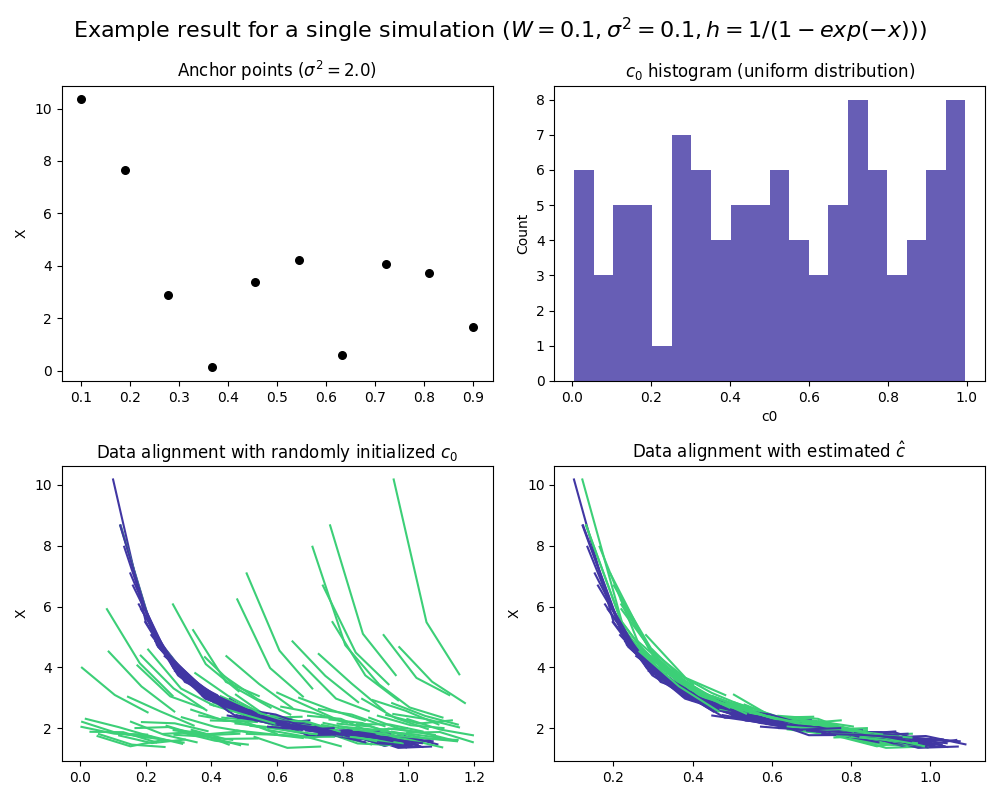
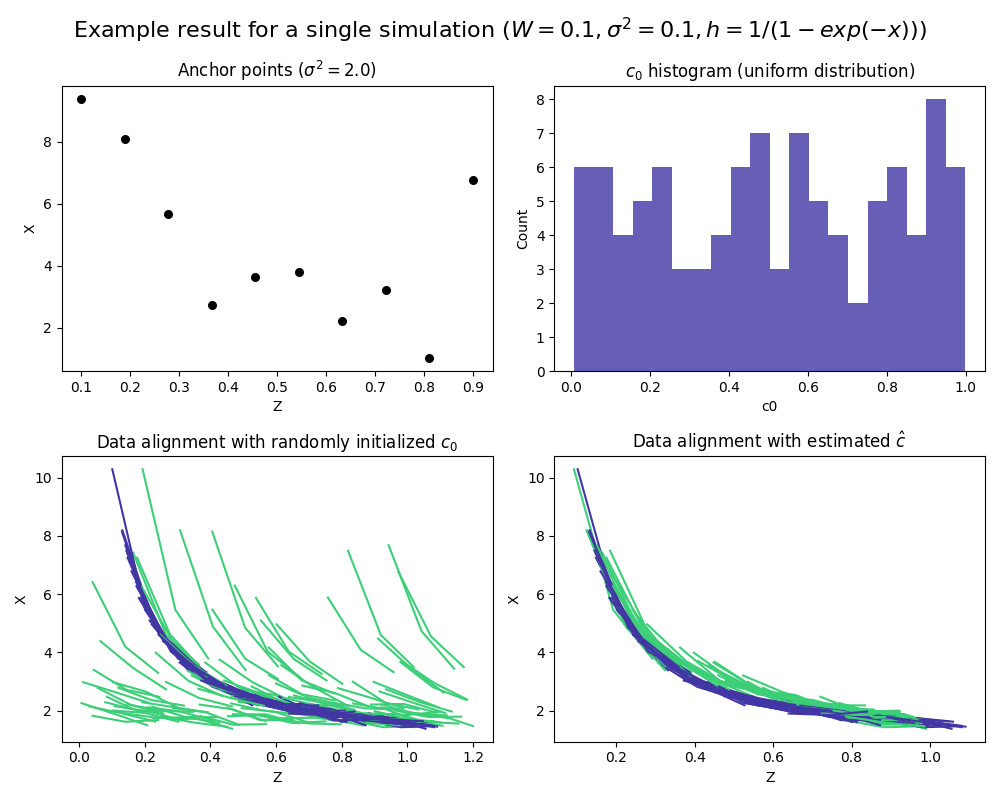
Updates

diff --git a/paper/main.tex b/paper/main.tex
@@ -24,31 +24,18 @@ ESP32s equipped with capacitive moisture sensors have recently been suggested fo
 
 \section{Introduction}
 
-\begin{itemize}
-    \item Summary of physical properties of soils and the measurement of moisture
-    \item Summary of recent work proposing ESP32s and capacitive sensors
-    \item Problem statement of response curves and calibration, measurement in practice by consumers
-    \item Objectives: software system, event classification, response curve algorithm
-\end{itemize}
+Recent work has proposed the use of ESP32-class microcontrollers and low-cost moisture sensors for automated watering systems \cite{biswas2018-solar-pump, purnomo2021-lora, sudarmaji2024-smart-soil, afzal2025-arima}, motivated by mitigating water shortages \cite{afzal2025-arima}. As global heating increases, both flooding and increases in water shortages are expected world-wide \hl{cite}. In previous work, ESP32/capacitive sensor calibration has been performed by gravimetry \cite{sudarmaji2024-smart-soil} and WiFi connections. However, it is expected that these curves depend on a range of factors, including soil type (i.e. clay content), temperature \cite{merlin2007-calibration}, and salinity \hl{cite}, with unknown generalisability \hl{cite}. Furthermore, end users may find it difficult to undertake gravimetry for each specific application type. Bogena et al (2017) \cite{bogena2017-calibration} developed a procedure for calibration of low-cost moisture sensors and observed variability, suggesting sensor-specific calibration instead of a single global calibration curve. Overall, there is increasing interest in IoT sensors and their application to agriculture (see \cite{ruiz2025-iot-mapping} for a bibliometric analysis).\\
+
+The objective of this work was to introduce an automated system and statistical method for automated calibration of sensors with minimal user input. This aim was primarily motivated by the challenge end users may find with gravimetric calibration, as well as lack of generalisability of a given calibration curve.
 
 \begin{itemize}
   \item Frequency dependence \cite{kelleners2005-frequency-dependence}.
   \item Standardized methodologies explicitly test salinity, temperature, and effective frequency \cite{jones2005-em-methodology}.
-  \item ESP32-based smart agriculture prototype \cite{swathi2025-esp32-smart-ag}.
-  \item Coastal horticulture deployment \cite{sudarmaji2024-smart-soil}.
-  \item Solar-powered irrigation control \cite{biswas2018-solar-pump}.
-  \item ARIMA with IoT monitoring to inform watering schedules \cite{afzal2025-arima}.
-  \item Low-power field deployment for soil moisture telemetry \cite{purnomo2021-lora}.
-  \item A review of IoT in this context \cite{ruiz2025-iot-mapping}.
-  \item Prior work on variability \cite{bogena2017-calibration}.
-  \item Heterogeneous soils, temperature variability \cite{merlin2007-calibration}.
   \item EM sensing accuracy \cite{sheng2025-frequency}.
   \item Sensitivity to salinity and temperature \cite{jones2005-em-methodology}.
   \item Frequency, conductivity, and temperature effects for sensors \cite{kizito2008-frequency}.
   \item Permittivity measurements and variability \cite{seyfried2004-50mhz}.
   \item Clayey soil deviation, structural effects \cite{gonzalez-teruel2020-mixing}.
-  \item TODO: search for sensor placement/spatial heterogeneity study.
-  \item TODO: search for work on drift in capacitive sensors.
 \end{itemize}
 
 \section{Methods}
@@ -89,7 +76,7 @@ Y_i = X_i - EMWA_\lambda(X)_i
 \min\limits_{i < j < i+k}{|Y_{j,s} - Y_{i,s}|} > q
 \]
 
-Given an event candidate at $t_{i+1}$ and window size $k$; for the sensors chosen, $X$ is decreasing in water content, so only events with negative change are assumed to be watering. In addition, only events for which all sensors attached to a given microcontroller agree on an event were taken. This resulted in a classification parameterized by two thresholds, two window sizes, and a median absolute deviation scale factor: $(p, q, k, w, c, \lambda)$. \\
+Given an event candidate at $t_{i+1}$ and window size $k$; for the sensors chosen, $X$ is decreasing in water content, so only events with negative change are assumed to be watering. In addition, only events for which all sensors attached to a given microcontroller agree on an event were taken. This resulted in a classification parameterized by two thresholds, two window sizes, and a median absolute deviation scale factor: $(p, q, k, w, c, \lambda)$. These were selected manually since obtaining reasonably good event classification itself was not challenging (see results). \\
 
 Manual recording of watering times, false negatives, and false positives via the system API are used characterise performance of the rule.
 
@@ -129,7 +116,7 @@ It is expected that, in order to characterise $h$ properly, the samples must suf
 
 In order to solve this optimisation problem, an iterative approach was used where 1) given a candidate $h$, $c$ can be identified by one-dimensional optimisation and 2) given $c$, $h$ can be estimated with isotonic regression. \\
 
-In order to characterise the performance of this algorithm under the given assumptions, simulation was performed.
+In order to characterise the performance of this algorithm under the given assumptions, simulation was performed.\\
 
 \begin{figure}[htb!]
   \centering
@@ -138,6 +125,7 @@ In order to characterise the performance of this algorithm under the given assum
   \label{fig:myfigure}
 \end{figure}
 
+\hl{TODO: there are unaccounted-for sources of noise throughout}
 
 
 \subsection{Validation}

diff --git a/scripts/simulate_calibration.py b/scripts/simulate_calibration.py
@@ -225,6 +225,7 @@ if __name__ == "__main__":
     ax0.scatter([z for z, _ in anchors], [x for _, x in anchors], c="black", s=30)
     ax0.set_title(f"Anchor points ($\sigma^2 = {anchor_sigma2}$)")
     ax0.set_ylabel("X")
+    ax0.set_xlabel("Z")
 
     for s in range(nS):
         S, X = samps[s]
@@ -244,8 +245,10 @@ if __name__ == "__main__":
     ax1.set_ylabel("Count")
     ax2.set_title("Data alignment with randomly initialized $c_0$")
     ax2.set_ylabel("X")
+    ax2.set_xlabel("Z")
     ax3.set_title("Data alignment with estimated $\hat{c}$")
     ax3.set_ylabel("X")
+    ax3.set_xlabel("Z")
 
     fig.suptitle(f"Example result for a single simulation ($W={W},\sigma^2={sigma2},h=1/(1 - exp(-x))$)", fontsize=16)
     plt.tight_layout()
